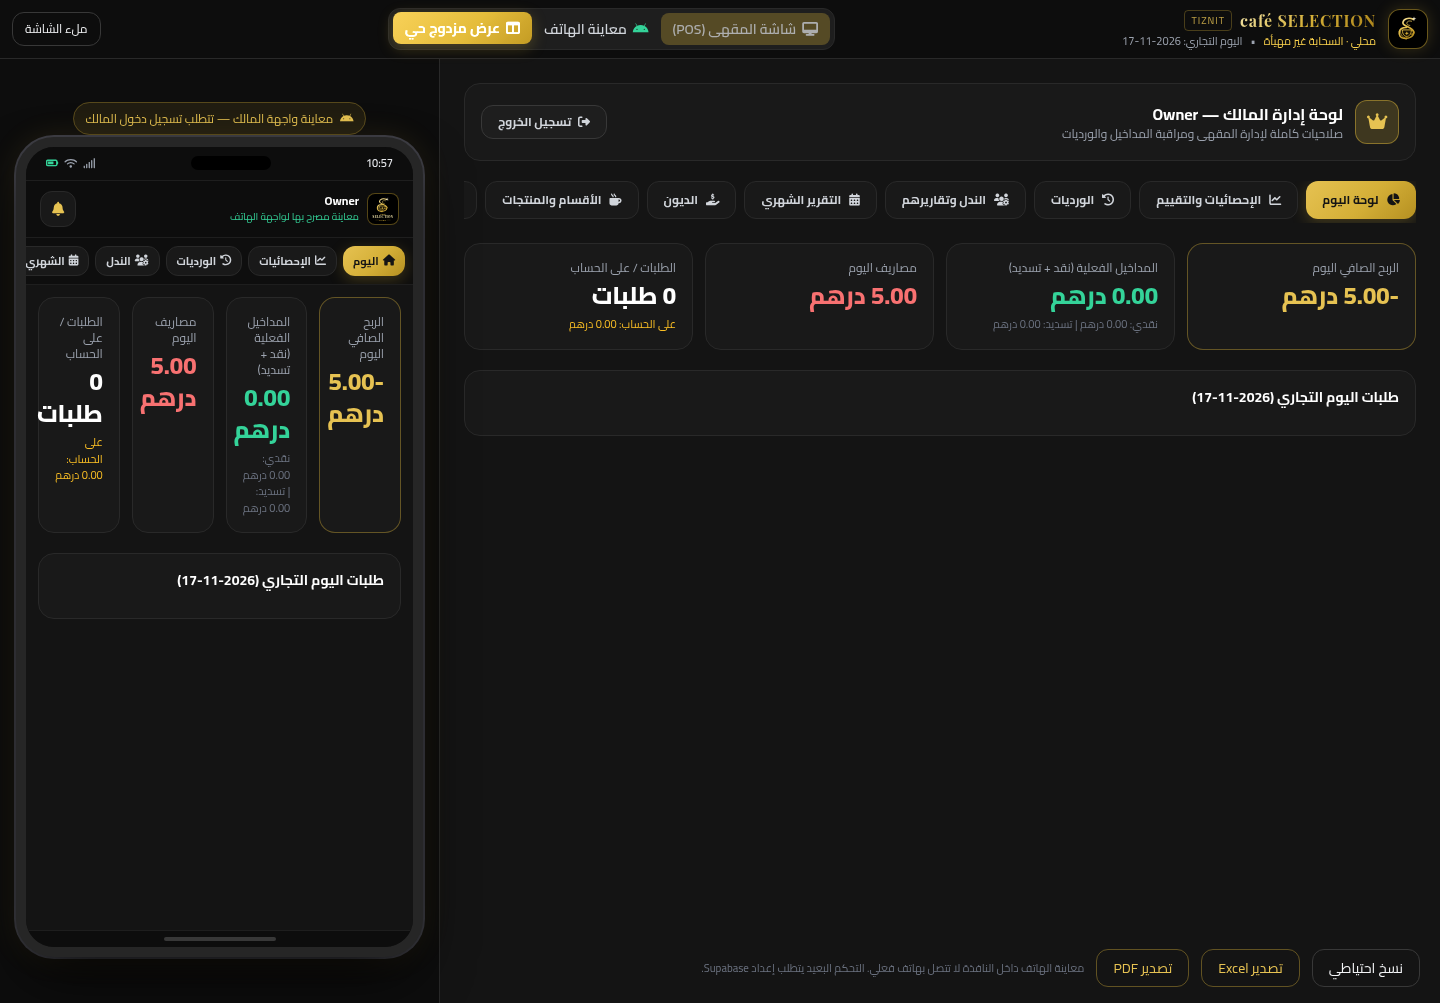
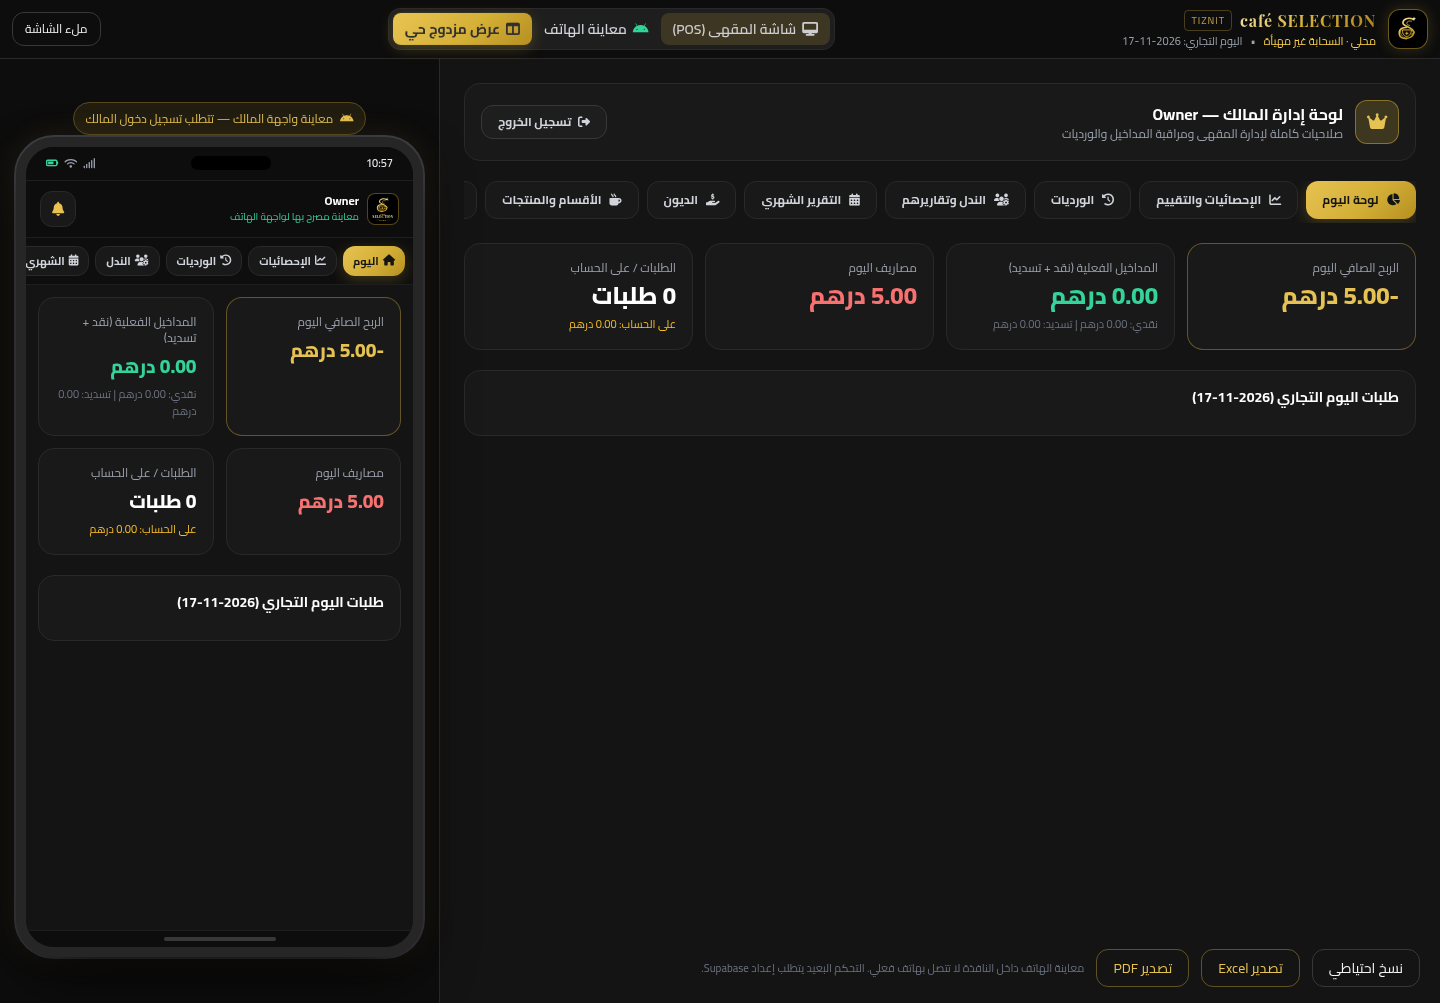
Keep embedded phone cards readable and verify v2 account migration

diff --git a/electron_pos/src/renderer/style.css b/electron_pos/src/renderer/style.css
@@ -1,3 +1,110 @@
 /* Integrations added to the supplied design. */
-.form-input{width:100%;background:#0d0d0d;border:1px solid #383838;border-radius:12px;color:#fff;padding:12px;outline:none}.form-input:focus{border-color:#D4AF37}button:focus-visible{outline:2px solid #E6C252;outline-offset:3px}#main-workspace{min-height:calc(100vh - 60px)}#desktop-container{max-height:calc(100vh - 60px)}#modal-content input[type=password]{-webkit-text-security:disc}input{user-select:text}@media print{body *{visibility:hidden}#printable-receipt,#printable-receipt *{visibility:visible}#printable-receipt{position:absolute;right:0;top:0;box-shadow:none;width:72mm}#modal-backdrop{position:static;background:#fff}}
-#printable-report{display:none}@page financial{size:A4;margin:15mm}@media print{#printable-report{display:block;page:financial;position:absolute;inset:0;width:100%;background:white;color:black;font-family:Cairo,sans-serif}#printable-report,#printable-report *{visibility:visible}#printable-report h1,#printable-report h2{font-size:22px;text-align:center;margin:16px}#printable-report p{margin:20px 0}#printable-report table{width:100%;border-collapse:collapse}#printable-report th,#printable-report td{border:1px solid #ccc;padding:12px;text-align:right}#printable-report thead{display:table-header-group}#printable-report tr{break-inside:avoid}}
+.form-input {
+  width: 100%;
+  background: #0d0d0d;
+  border: 1px solid #383838;
+  border-radius: 12px;
+  color: #fff;
+  padding: 12px;
+  outline: none;
+}
+.form-input:focus {
+  border-color: #d4af37;
+}
+button:focus-visible {
+  outline: 2px solid #e6c252;
+  outline-offset: 3px;
+}
+#main-workspace {
+  min-height: calc(100vh - 60px);
+}
+#desktop-container {
+  max-height: calc(100vh - 60px);
+}
+#modal-content input[type="password"] {
+  -webkit-text-security: disc;
+}
+input {
+  user-select: text;
+}
+@media print {
+  body * {
+    visibility: hidden;
+  }
+  #printable-receipt,
+  #printable-receipt * {
+    visibility: visible;
+  }
+  #printable-receipt {
+    position: absolute;
+    right: 0;
+    top: 0;
+    box-shadow: none;
+    width: 72mm;
+  }
+  #modal-backdrop {
+    position: static;
+    background: #fff;
+  }
+}
+#printable-report {
+  display: none;
+}
+@page financial {
+  size: A4;
+  margin: 15mm;
+}
+@media print {
+  #printable-report {
+    display: block;
+    page: financial;
+    position: absolute;
+    inset: 0;
+    width: 100%;
+    background: white;
+    color: black;
+    font-family: Cairo, sans-serif;
+  }
+  #printable-report,
+  #printable-report * {
+    visibility: visible;
+  }
+  #printable-report h1,
+  #printable-report h2 {
+    font-size: 22px;
+    text-align: center;
+    margin: 16px;
+  }
+  #printable-report p {
+    margin: 20px 0;
+  }
+  #printable-report table {
+    width: 100%;
+    border-collapse: collapse;
+  }
+  #printable-report th,
+  #printable-report td {
+    border: 1px solid #ccc;
+    padding: 12px;
+    text-align: right;
+  }
+  #printable-report thead {
+    display: table-header-group;
+  }
+  #printable-report tr {
+    break-inside: avoid;
+  }
+}
+/* The embedded phone has its own narrow viewport inside the desktop page. */
+#android-app-content .grid-cols-2 {
+  grid-template-columns: repeat(2, minmax(0, 1fr));
+}
+#android-app-content .grid-cols-1 {
+  grid-template-columns: minmax(0, 1fr);
+}
+#android-app-content .text-xl {
+  font-size: 1.2rem;
+}
+#android-app-content .text-2xl {
+  font-size: 1.25rem;
+}

diff --git a/electron_pos/src/renderer/app.js b/electron_pos/src/renderer/app.js
@@ -415,6 +415,8 @@ expose("submitPinLogin", async () => {
   if (!account) throw Error("اختر الحساب أولاً");
   const pin = uiState.pinInput;
   uiState.pinInput = "";
+  const field = document.getElementById("login-pin");
+  if (field) field.value = "";
   const session = await call("login", { name: account.name, pin });
   token = session.token;
   requestId = null;
